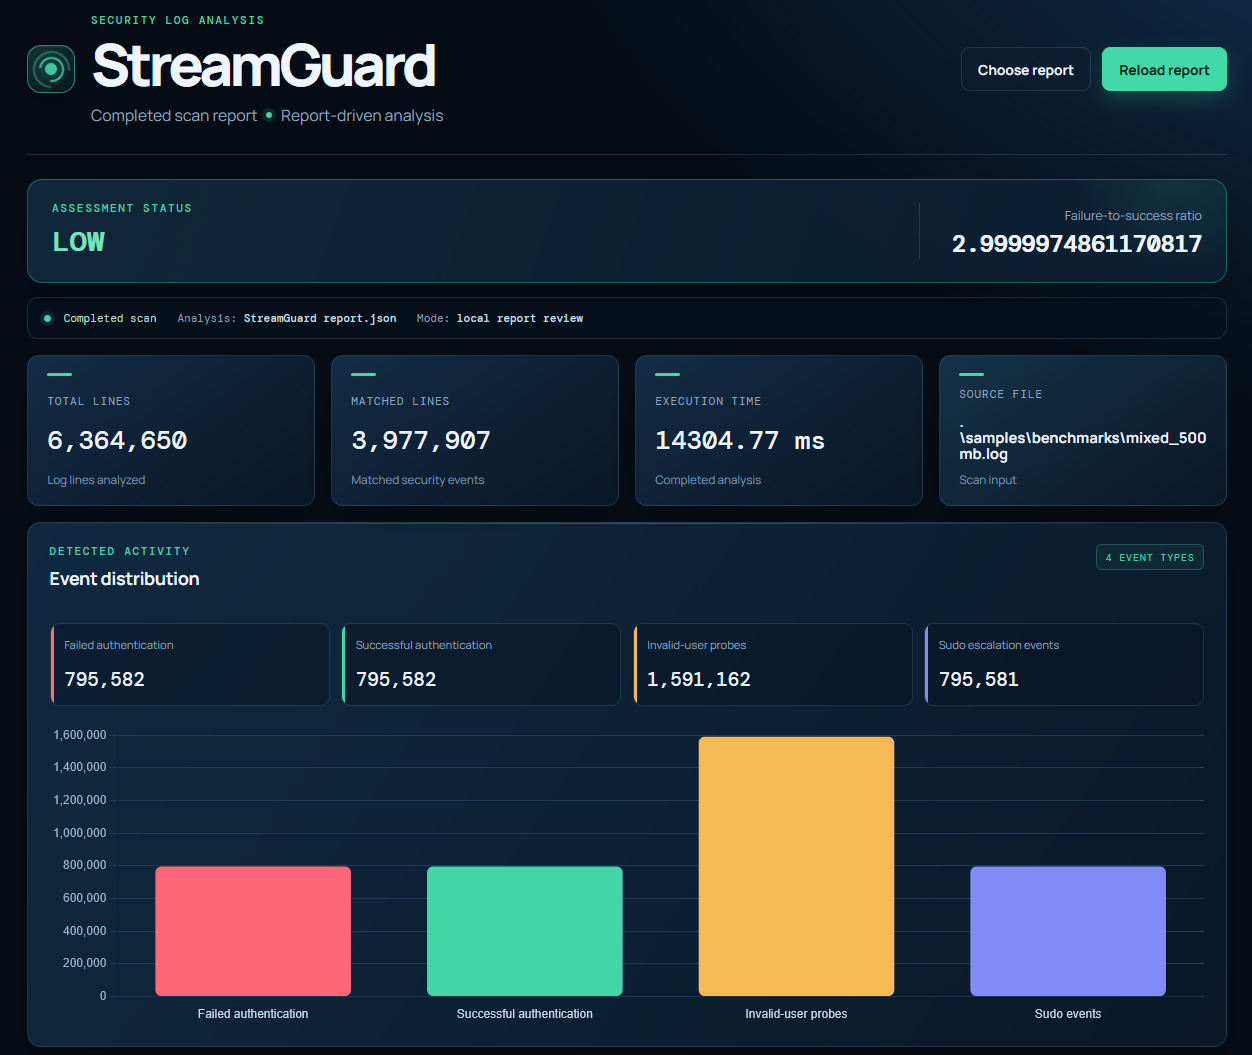
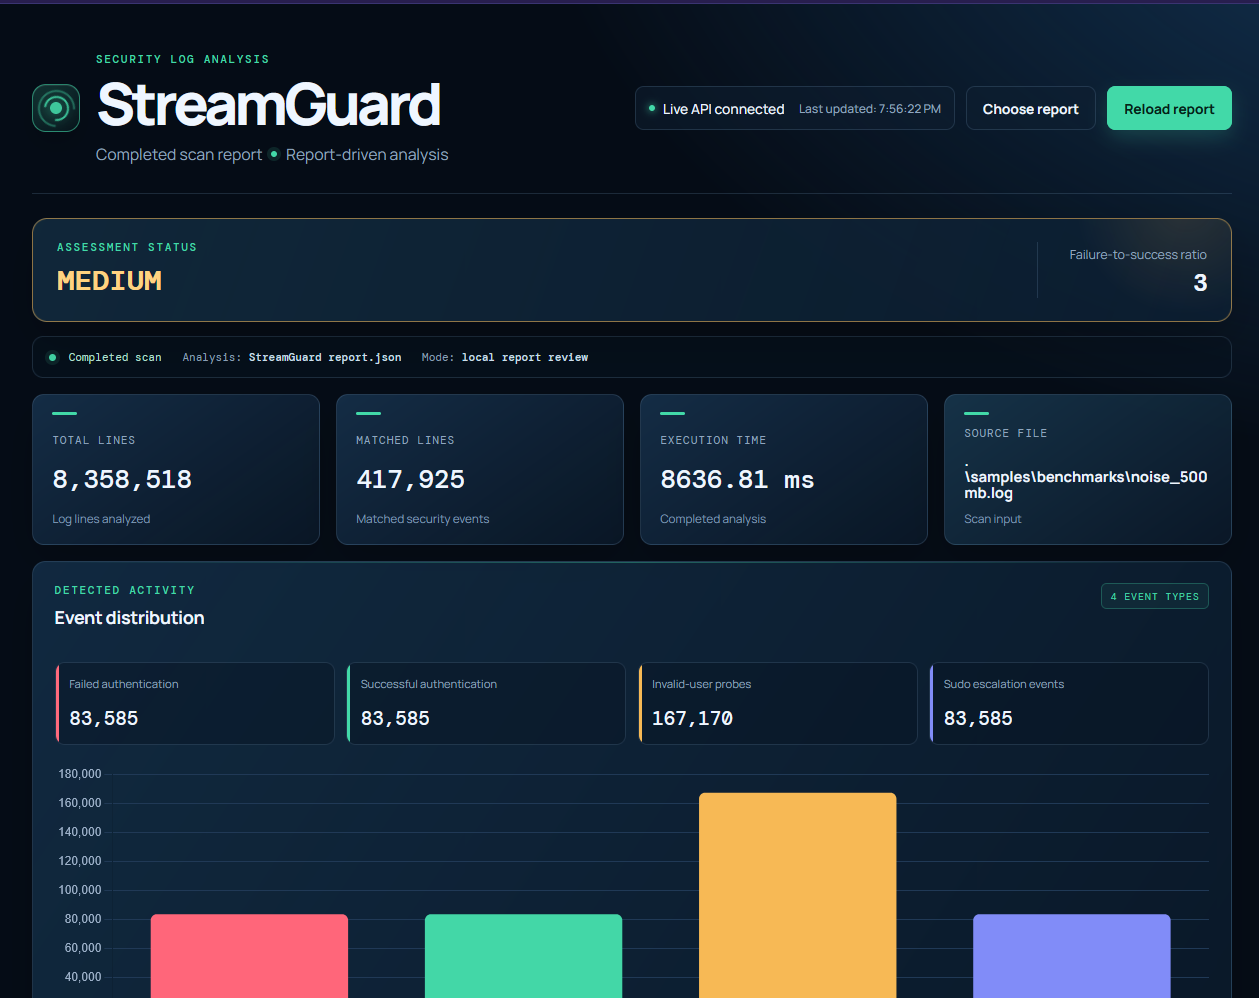
Final API audit and project documentation

diff --git a/dashboard/style.css b/dashboard/style.css
@@ -1,2 +1,9 @@
 @import url('https://fonts.googleapis.com/css2?family=DM+Mono:wght@400;500&family=Manrope:wght@400;500;600;700;800&display=swap');
 :root{--canvas:#07111f;--deep:#050c16;--surface:rgba(13,29,48,.88);--surface2:#10263d;--text:#eff6ff;--muted:#8fa6bf;--line:rgba(121,158,193,.2);--accent:#42d9a8;--accent-soft:rgba(66,217,168,.12);--danger:#ff697c;--shadow:0 18px 45px rgba(0,0,0,.22)}*{box-sizing:border-box}body{margin:0;min-width:320px;min-height:100vh;background:radial-gradient(ellipse 90% 55% at 100% -10%,#153c61 0,transparent 62%),radial-gradient(ellipse 70% 45% at 0 100%,#0e2e46 0,transparent 70%),var(--deep);color:var(--text);font-family:Manrope,system-ui,sans-serif}.dashboard-shell{width:min(1200px,calc(100% - 2.5rem));margin:auto;padding:3rem 0 4rem}.hero{display:flex;justify-content:space-between;align-items:center;gap:2rem;padding-bottom:2.25rem;border-bottom:1px solid var(--line);margin-bottom:1.5rem}.eyebrow{margin:0 0 .5rem;color:var(--accent);font-family:"DM Mono",monospace;font-size:.69rem;font-weight:500;text-transform:uppercase;letter-spacing:.15em}h1,h2,p{margin-top:0}h1{margin:0;font-size:clamp(2.2rem,4vw,3.65rem);font-weight:800;letter-spacing:-.065em;line-height:1}.subtitle{margin:.65rem 0 0;color:var(--muted);font-size:.98rem}.controls{display:flex;gap:.7rem;flex-wrap:wrap;justify-content:flex-end}.button,.file-button{display:inline-flex;align-items:center;justify-content:center;min-height:44px;border:1px solid var(--line);border-radius:.55rem;cursor:pointer;padding:.68rem 1rem;color:var(--text);font:inherit;font-size:.86rem;font-weight:700;background:rgba(13,29,48,.55);transition:.18s}.button{background:var(--accent);color:#042219;border-color:var(--accent);box-shadow:0 7px 18px rgba(66,217,168,.18)}.button:hover{transform:translateY(-1px);box-shadow:0 10px 22px rgba(66,217,168,.26)}.file-button:hover{background:var(--surface2);border-color:rgba(143,193,224,.55)}.file-button input{position:absolute;width:1px;height:1px;opacity:0}.threat-banner{display:flex;align-items:center;justify-content:space-between;position:relative;overflow:hidden;padding:1.35rem 1.5rem;border:1px solid rgba(66,217,168,.34);border-radius:.9rem;margin-bottom:1rem;background:linear-gradient(110deg,rgba(16,40,59,.94),rgba(12,31,51,.76));box-shadow:var(--shadow)}.threat-banner:after{content:"";position:absolute;width:230px;height:230px;right:-70px;top:-130px;border-radius:50%;background:radial-gradient(circle,var(--accent-soft),transparent 68%)}.threat-banner[data-level="high"]{border-color:rgba(255,105,124,.56)}.threat-banner[data-level="high"]:after{background:radial-gradient(circle,rgba(255,105,124,.14),transparent 68%)}.threat-banner[data-level="medium"]{border-color:rgba(247,185,85,.55)}.threat-banner[data-level="medium"]:after{background:radial-gradient(circle,rgba(247,185,85,.13),transparent 68%)}.threat-banner h2{margin:0;font-size:2rem;letter-spacing:-.04em}.ratio{z-index:1;text-align:right;padding-left:2rem;border-left:1px solid var(--line)}.ratio span,.metric-card span,dt{color:var(--muted);font-size:.78rem}.ratio strong{display:block;margin-top:.25rem;font-family:"DM Mono",monospace;font-size:1.45rem}.metric-grid{display:grid;grid-template-columns:repeat(4,1fr);gap:1rem;margin-bottom:1rem}.metric-card,.panel{background:linear-gradient(145deg,rgba(18,40,63,.88),rgba(10,25,42,.85));border:1px solid var(--line);box-shadow:var(--shadow)}.metric-card{position:relative;min-height:124px;padding:1.1rem 1.2rem;border-radius:.75rem;display:flex;flex-direction:column;justify-content:space-between;gap:.7rem;overflow:hidden}.metric-card:before{content:"";width:25px;height:3px;border-radius:999px;background:var(--accent)}.metric-card strong{font-family:"DM Mono",monospace;font-size:1.62rem;font-weight:500;overflow-wrap:anywhere}.file-card strong{font-family:Manrope,sans-serif;font-size:.92rem;font-weight:700}.panel{border-radius:.85rem;padding:1.35rem}.chart-panel{margin-bottom:1rem}.panel-heading{display:flex;justify-content:space-between;align-items:start;margin-bottom:1.15rem}.panel-heading h2{font-size:1.12rem;letter-spacing:-.02em}.chart-wrap{height:300px;position:relative}.two-column{display:grid;grid-template-columns:1fr 1fr;gap:1rem;margin-bottom:1rem}.assessment-list,.info-list{margin:0}.assessment-list div,.info-list div{display:flex;align-items:baseline;justify-content:space-between;gap:1rem;padding:.78rem 0;border-bottom:1px solid var(--line)}.assessment-list div:last-child,.info-list div:last-child{border-bottom:0}dt{font-size:.8rem}dd{margin:0;max-width:60%;text-align:right;color:#dceaff;font-family:"DM Mono",monospace;font-size:.84rem;font-weight:500;overflow-wrap:anywhere}.explanation{margin:1rem 0 0;padding:1rem 1.05rem;border-radius:.6rem;border-left:3px solid var(--accent);background:rgba(4,17,30,.54);color:#c6d9ed;font-size:.9rem;line-height:1.6}table{width:100%;border-collapse:collapse}th,td{padding:.78rem .15rem;border-bottom:1px solid var(--line);text-align:left}th{color:var(--muted);font-family:"DM Mono",monospace;font-size:.67rem;font-weight:400;text-transform:uppercase;letter-spacing:.08em}td{font-family:"DM Mono",monospace;font-size:.85rem;color:#deebf8}td:last-child,th:last-child{text-align:right}.empty{color:var(--muted);font-size:.9rem;margin:.5rem 0}.notice{margin:0;padding:1rem 1.15rem;border:1px solid rgba(99,139,177,.3);border-radius:.7rem;background:rgba(10,27,45,.7);color:#b7cae0;font-size:.85rem;line-height:1.55}.error-panel{border:1px solid rgba(255,105,124,.55);border-radius:.8rem;padding:1.2rem 1.35rem;background:linear-gradient(100deg,rgba(73,20,31,.9),rgba(45,20,30,.88));color:#ffdde2;margin-bottom:1rem;box-shadow:var(--shadow)}.error-panel strong{font-size:1rem}.error-panel p{margin:.38rem 0 0;color:#ffc2cc}@media(max-width:760px){.dashboard-shell{width:min(100% - 1.4rem,1200px);padding-top:1.8rem}.hero{align-items:flex-start;flex-direction:column;padding-bottom:1.5rem}.controls{justify-content:flex-start}.threat-banner{align-items:flex-start;flex-direction:column}.ratio{padding:1rem 0 0;text-align:left;border:0;border-top:1px solid var(--line);width:100%}.metric-grid,.two-column{grid-template-columns:1fr 1fr}.file-card{grid-column:span 2}}@media(max-width:480px){.metric-grid,.two-column{grid-template-columns:1fr}.file-card{grid-column:auto}.panel{padding:1.05rem}.metric-card{min-height:106px}}
+
+.live-status { display: flex; align-items: center; gap: 0.5rem; background: rgba(13,29,48,0.55); padding: 0.5rem 0.8rem; border-radius: 0.55rem; border: 1px solid var(--line); font-size: 0.86rem; font-weight: 500; }
+.live-status small { color: var(--muted); font-size: 0.75rem; margin-left: 0.4rem; }
+.status-dot { display: inline-block; width: 8px; height: 8px; border-radius: 50%; background: var(--muted); transition: 0.3s; }
+.status-dot.active { background: var(--accent); box-shadow: 0 0 8px var(--accent); }
+.status-dot.error { background: var(--danger); box-shadow: 0 0 8px var(--danger); }
+

diff --git a/dashboard/app.js b/dashboard/app.js
@@ -59,29 +59,106 @@ function render(report) {
   renderChart(summary.eventCounts);
 }
 
+const API_REPORT_URL = "/api/report";
+let liveMode = false;
+let pollingInterval = null;
+let isFetching = false;
+let lastRawReport = null;
+
 async function loadReport() {
+  if (isFetching) return;
+  isFetching = true;
   try {
     let raw;
     if (currentSource.type === "file") raw = await currentSource.value.text();
+    else if (currentSource.type === "api") {
+      const response = await fetch(currentSource.value, { cache: "no-store" });
+      if (!response.ok) throw new Error(`API returned HTTP ${response.status}.`);
+      raw = await response.text();
+    }
     else {
       const response = await fetch(currentSource.value, { cache: "no-store" });
       if (!response.ok) throw new Error(`Could not find ${currentSource.value} (HTTP ${response.status}). Choose a report file or serve the repository root locally.`);
       raw = await response.text();
     }
-    try { render(JSON.parse(raw)); } catch (error) { if (error instanceof SyntaxError) throw new Error("The selected report is not valid JSON."); throw error; }
+    try {
+      const parsed = JSON.parse(raw);
+      updateLiveStatus(true);
+      if (raw !== lastRawReport) {
+        render(parsed);
+        lastRawReport = raw;
+      }
+    } catch (error) {
+      if (error instanceof SyntaxError) throw new Error("The selected report is not valid JSON.");
+      throw error;
+    }
   } catch (error) {
     const message = currentSource.type === "url" && window.location.protocol === "file:"
       ? "Your browser blocks automatic report loading when this page is opened directly from a file. Use “Choose report” to select report.json, or open the dashboard through http://localhost:8080/dashboard/."
       : (error.message || "An unexpected error occurred while loading the report.");
-    showError(message);
+    
+    if (liveMode) {
+        updateLiveStatus(false);
+        // Do not destroy current report on transient API failure
+    } else {
+        showError(message);
+    }
+  } finally {
+      isFetching = false;
   }
+}
+
+function updateLiveStatus(success) {
+    if (!liveMode) {
+        $("live-status").style.display = "none";
+        return;
+    }
+    $("live-status").style.display = "flex";
+    if (success) {
+        $("live-indicator").className = "status-dot active";
+        $("live-text").textContent = "Live API connected";
+        $("live-time").textContent = `Last updated: ${new Date().toLocaleTimeString()}`;
+    } else {
+        $("live-indicator").className = "status-dot error";
+        $("live-text").textContent = "API unavailable";
+        $("live-time").textContent = "Using current report";
+    }
+}
+
+function enableLiveMode() {
+    liveMode = true;
+    currentSource = { type: "api", value: API_REPORT_URL, label: "Live API" };
+    loadReport();
+    if (pollingInterval) clearInterval(pollingInterval);
+    pollingInterval = setInterval(loadReport, 5000);
+    $("live-button").style.display = "none";
+    updateLiveStatus(false); // initializing
+}
+
+function disableLiveMode() {
+    liveMode = false;
+    if (pollingInterval) clearInterval(pollingInterval);
+    $("live-button").style.display = "inline-flex";
+    updateLiveStatus(false);
 }
 
 $("report-file").addEventListener("change", (event) => {
   const file = event.target.files[0];
   if (!file) return;
+  disableLiveMode();
+  lastRawReport = null;
   currentSource = { type: "file", value: file, label: file.name };
   loadReport();
 });
-$("reload-button").addEventListener("click", loadReport);
+
+$("reload-button").addEventListener("click", () => {
+    disableLiveMode();
+    lastRawReport = null;
+    loadReport();
+});
+
+$("live-button").addEventListener("click", enableLiveMode);
+
+// Initialize UI state
+$("live-status").style.display = "none";
 loadReport();

diff --git a/dashboard/index.html b/dashboard/index.html
@@ -18,6 +18,12 @@
           <div><p class="eyebrow">Security log analysis</p><h1>StreamGuard</h1><p class="subtitle">Completed scan report <span class="status-dot"></span> Report-driven analysis</p></div>
         </div>
         <div class="controls" aria-label="Report controls">
+          <div id="live-status" class="live-status">
+            <span id="live-indicator" class="status-dot"></span>
+            <span id="live-text">Live API</span>
+            <small id="live-time"></small>
+          </div>
+          <button id="live-button" class="button" type="button">Live API</button>
           <label class="file-button" for="report-file">Choose report<input id="report-file" type="file" accept="application/json,.json"></label>
           <button id="reload-button" class="button" type="button">Reload report</button>
         </div>

diff --git a/src/StreamGuard.Api/Program.cs b/src/StreamGuard.Api/Program.cs
@@ -1,0 +1,45 @@
+using Microsoft.Extensions.FileProviders;
+
+var builder = WebApplication.CreateBuilder(args);
+var app = builder.Build();
+
+// Dashboard path relative to the API project content root (which is src/StreamGuard.Api)
+var dashboardPath = Path.GetFullPath(Path.Combine(builder.Environment.ContentRootPath, "../../dashboard"));
+
+app.UseStaticFiles(new StaticFileOptions
+{
+    FileProvider = new PhysicalFileProvider(dashboardPath),
+    RequestPath = "/dashboard"
+});
+
+// Optionally redirect root to dashboard
+app.MapGet("/", () => Results.Redirect("/dashboard/index.html"));
+app.MapGet("/dashboard", () => Results.Redirect("/dashboard/index.html"));
+
+app.MapGet("/api/report", async (IConfiguration config) =>
+{
+    var reportPath = config.GetValue<string>("ReportPath") ?? "../../report.json";
+    
+    // Resolve relative path to absolute
+    if (!Path.IsPathRooted(reportPath))
+    {
+        reportPath = Path.GetFullPath(Path.Combine(builder.Environment.ContentRootPath, reportPath));
+    }
+
+    if (!File.Exists(reportPath))
+    {
+        return Results.NotFound(new { error = "Report file not found." });
+    }
+
+    try
+    {
+        var json = await File.ReadAllTextAsync(reportPath);
+        return Results.Content(json, "application/json");
+    }
+    catch (Exception ex)
+    {
+        return Results.Problem(detail: ex.Message, statusCode: 500, title: "Error reading report");
+    }
+});
+
+app.Run();

diff --git a/README.md b/README.md
@@ -57,6 +57,7 @@ Dashboard
 
 - C#
 - .NET 10 console application
+- ASP.NET Core Web API (Minimal APIs)
 - `StreamReader`
 - `ReadLineAsync()`
 - `System.Text.RegularExpressions`
@@ -85,6 +86,8 @@ The current test suite contains 41 tests, all passing.
 
 ## Usage
 
+### 1. Run the Analyzer
+
 ```text
 dotnet run --project src/StreamGuard -- <path-to-log>
 ```
@@ -95,11 +98,19 @@ Example:
 dotnet run --project src/StreamGuard -- samples/sample.log
 ```
 
-Use `--output <path>` to choose a different report path:
+Use `--output <path>` to choose a different report path (the dashboard expects `report.json` in the root by default):
 
 ```text
-dotnet run --project src/StreamGuard -- samples/sample.log --output output/report.json
+dotnet run --project src/StreamGuard -- samples/sample.log --output report.json
 ```
+
+### 2. Run the Dashboard
+
+```text
+dotnet run --project src/StreamGuard.Api
+```
+
+Then open `http://localhost:5000/dashboard/` in your browser.
 
 ## Output
 
@@ -168,15 +179,19 @@ The dashboard is a standalone presentation layer that consumes the generated `re
 
 ### Run Locally
 
-From the repository root, run a static server:
+The dashboard and the live report API are served together from the ASP.NET Core API project.
+
+1. Start the ASP.NET Core API:
 
 ```powershell
-python -m http.server 8080
+dotnet run --project src/StreamGuard.Api
 ```
 
-Open `http://localhost:8080/dashboard/`. Generate the report at the repository root with `--output report.json`, or select a completed JSON report manually via **Choose report**.
+2. Open the dashboard in your browser:
 
-Most browsers block `fetch()` when opening `index.html` directly from the file system. The file picker may still work, but a local static server is the reliable option.
+`http://localhost:5000/dashboard/`
+
+Generate the report at the repository root (or let the analyzer write to the default location), and the dashboard will automatically pick it up when you select **Live API**. You can also manually load any JSON report via the **Choose report** button.
 
 ### Dashboard Preview
 
@@ -185,6 +200,29 @@ Most browsers block `fetch()` when opening `index.html` directly from the file s
 
 The dashboard is presentation/report-review only. It does not perform the core log analysis.
 
+### Live Dashboard API
+
+The project includes an ASP.NET Core Web API to serve the latest `report.json` to the dashboard automatically, providing a live-update experience. ASP.NET Core serves both the dashboard static files and the report API, removing the need for a separate Python web server.
+
+**Why it exists**: The API acts purely as a report delivery layer. It avoids duplicating the core log analysis logic while allowing the dashboard to poll for the latest generated report without requiring the user to manually select the file.
+
+**Architecture**:
+
+```text
+                ASP.NET Core
+                     │
+          ┌──────────┴──────────┐
+          │                     │
+    /dashboard/             /api/report
+          │                     │
+    HTML/CSS/JS              report.json
+          │                     │
+          └──────────┬──────────┘
+                     ▼
+                  Browser
+```
+
+The dashboard will automatically attempt to connect to the Live API and poll every 5 seconds. If the API is offline or unreachable, the dashboard safely falls back and allows manual report selection. Because the dashboard and API share the same origin, CORS is not required.
 ## Performance & Memory Validation
 
 ### Methodology
@@ -278,14 +316,17 @@ StreamGuard/
 │   └── benchmarks/                 # Generated benchmark inputs (gitignored)
 │
 ├── src/
-│   └── StreamGuard/                # Console application
+│   ├── StreamGuard/                # Console application
+│   │   ├── Program.cs
+│   │   ├── LogScanner.cs
+│   │   ├── SecurityEvent.cs
+│   │   ├── SecurityEventParser.cs
+│   │   ├── ThreatAssessment.cs
+│   │   ├── ReportGenerator.cs
+│   │   └── BoundedFrequencyCounter.cs
+│   └── StreamGuard.Api/            # Live Dashboard API
 │       ├── Program.cs
-│       ├── LogScanner.cs
-│       ├── SecurityEvent.cs
-│       ├── SecurityEventParser.cs
-│       ├── ThreatAssessment.cs
-│       ├── ReportGenerator.cs
-│       └── BoundedFrequencyCounter.cs
+│       └── appsettings.json
 │
 ├── tests/                          # xUnit tests
 │   └── StreamGuard.Tests/
